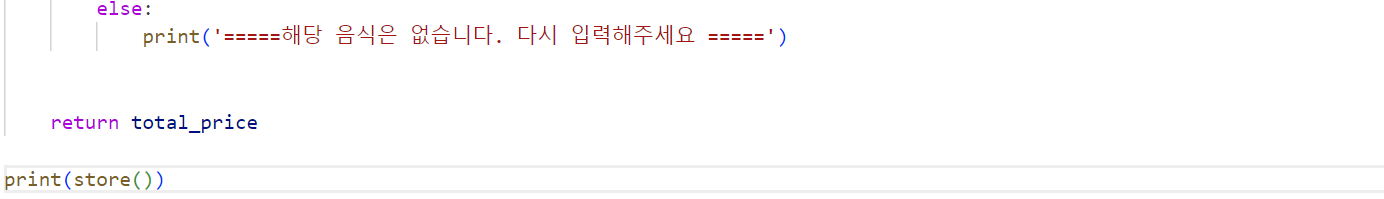
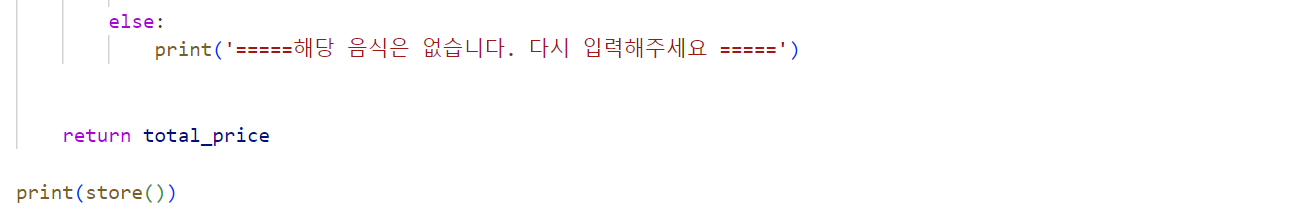
20231109

Changed region(s): [[0.0617, 0.0, 0.6173, 0.2714], [0.0309, 0.5729, 0.216, 0.6935], [0.0, 0.8442, 0.1543, 0.9648]]

diff --git a/01. PYTHON_PROJECT/movie.py b/01. PYTHON_PROJECT/movie.py
@@ -18,7 +18,7 @@ def movie_info():
         if movie_num in movie:
             print(f'선택된 영화 : {movie.get(movie_num)}')
             break
-        else : print('=====해당 영화는 존재하지 않습니다. 다시 입력해주세요.=====')
+        else : print('===== 해당 영화는 존재하지 않습니다. 다시 입력해주세요. =====')
     price_child=14_000
     price_adult=16_000
 # ============================= 인원수 입력 =========================================

diff --git a/01. PYTHON_PROJECT/food.py b/01. PYTHON_PROJECT/food.py
@@ -70,9 +70,9 @@ def store():
                 
             # break
         else:
-            print('=====해당 음식은 없습니다. 다시 입력해주세요 =====')
+            print('===== 해당 음식은 없습니다. 다시 입력해주세요. =====')
 
 
-    return total_price
+    return f' 총 가격은 {total_price}원입니다.'
 
 print(store())
